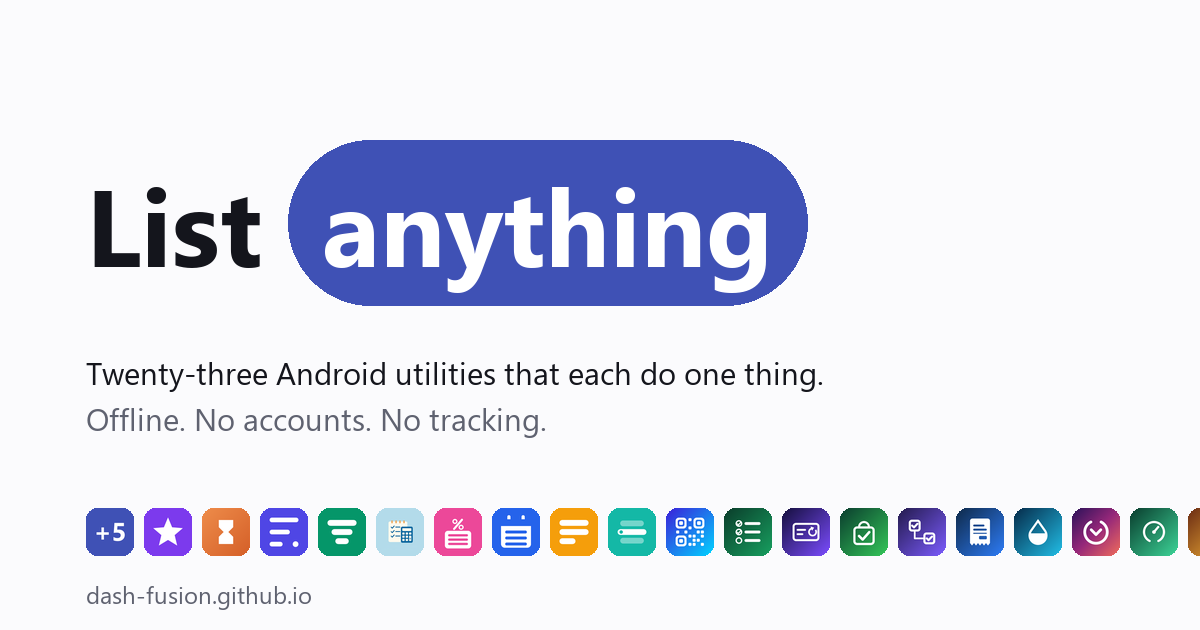
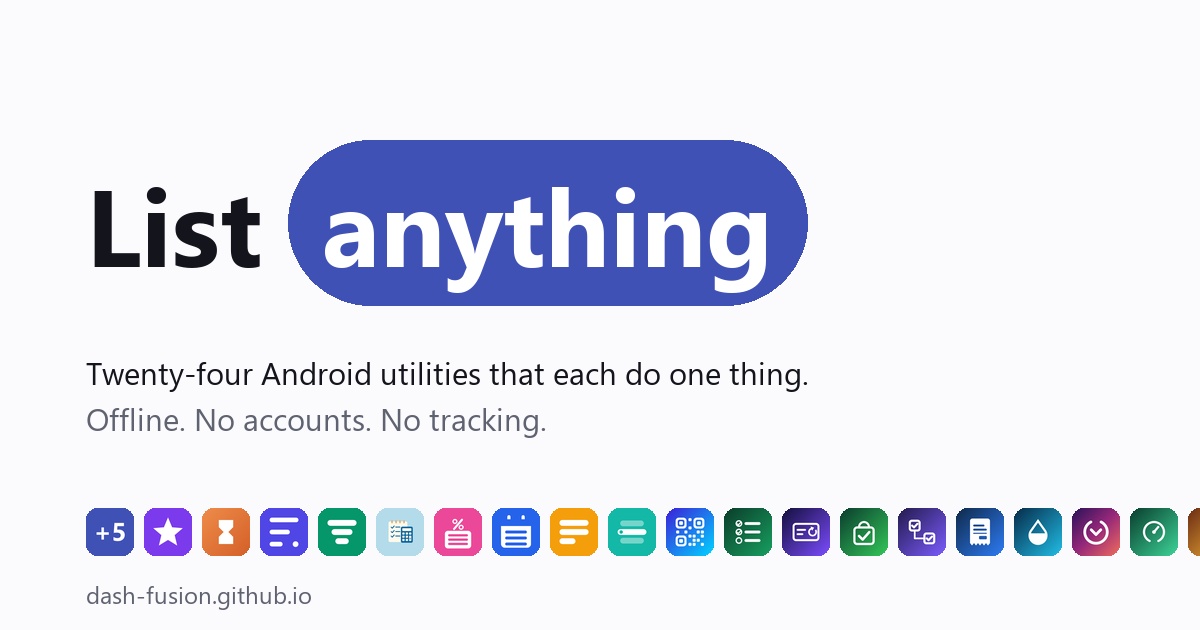
Add Pill Reminder to the site
All seven checklist items. It sits in Count and track with the other health
apps rather than in a category of its own, and the row copy leads with the thing
that matters in a reminder app - that the reminder actually arrives.

Verified rather than assumed: the JSON-LD parses, positions run contiguously
from one with no duplicate names, and the page carries twenty-six rows against
a count word of twenty-four, which is correct because the word counts utilities
only and the two games are counted separately.

This is the first row whose name carries no List prefix, following the naming
change made today.

Changed region(s): [[0.1542, 0.573, 0.6783, 0.6333]]

diff --git a/index.html b/index.html
@@ -5,7 +5,7 @@
 <meta name="viewport" content="width=device-width, initial-scale=1">
 
 <title>Dash Fusion — offline-first Android utility apps</title>
-<meta name="description" content="Twenty-three small Android utilities that each do one thing well — counters, timers, budgets, subscriptions, shopping lists, notes, QR codes and more — plus two offline games: Potion Sort color-sort puzzles and Neon PingPong arcade duels. Everything works fully offline, with no account required.">
+<meta name="description" content="Twenty-four small Android utilities that each do one thing well — counters, timers, budgets, subscriptions, shopping lists, notes, QR codes and more — plus two offline games: Potion Sort color-sort puzzles and Neon PingPong arcade duels. Everything works fully offline, with no account required.">
 <link rel="canonical" href="https://dash-fusion.github.io/">
 <meta name="author" content="Dash Fusion">
 <meta name="robots" content="index, follow, max-image-preview:large">
@@ -16,14 +16,14 @@
 <meta property="og:site_name" content="Dash Fusion">
 <meta property="og:url" content="https://dash-fusion.github.io/">
 <meta property="og:title" content="Dash Fusion — offline-first Android utility apps">
-<meta property="og:description" content="Twenty-three small Android utilities that each do one thing well, plus two offline games — Potion Sort and Neon PingPong. No account required.">
+<meta property="og:description" content="Twenty-four small Android utilities that each do one thing well, plus two offline games — Potion Sort and Neon PingPong. No account required.">
 <meta property="og:image" content="https://dash-fusion.github.io/og.png">
 <meta property="og:image:width" content="1200">
 <meta property="og:image:height" content="630">
-<meta property="og:image:alt" content="Dash Fusion — List anything. The twenty-three app icons in a row.">
+<meta property="og:image:alt" content="Dash Fusion — List anything. The twenty-four app icons in a row.">
 <meta name="twitter:card" content="summary_large_image">
 <meta name="twitter:title" content="Dash Fusion — offline-first Android utility apps">
-<meta name="twitter:description" content="Twenty-three small Android utilities that each do one thing well, plus two offline games — Potion Sort and Neon PingPong. No account required.">
+<meta name="twitter:description" content="Twenty-four small Android utilities that each do one thing well, plus two offline games — Potion Sort and Neon PingPong. No account required.">
 <meta name="twitter:image" content="https://dash-fusion.github.io/og.png">
 
 <link rel="icon" href="/favicon.svg" type="image/svg+xml">
@@ -320,7 +320,7 @@ a{color:inherit}
 <header class="masthead shell">
   <p class="eyebrow">Dash Fusion</p>
   <h1 class="wordmark">List <span class="slot" id="slot"><span class="slot-text" id="slotText">anything</span></span></h1>
-  <p class="lede">Twenty-three Android utilities that each do <strong>one thing</strong> — and two offline games for your breaks. Everything works offline, keeps your data on your phone, and never asks who you are.</p>
+  <p class="lede">Twenty-four Android utilities that each do <strong>one thing</strong> — and two offline games for your breaks. Everything works offline, keeps your data on your phone, and never asks who you are.</p>
   <span class="slot-measure" id="slotMeasure" aria-hidden="true"></span>
 </header>
 
@@ -430,6 +430,19 @@ a{color:inherit}
           <div class="row-links">
             <a class="play-link" href="https://play.google.com/store/apps/details?id=com.dashfusion.listfast" aria-label="List Fast on Google Play" title="Get it on Google Play"><svg class="play-glyph" aria-hidden="true" focusable="false"><use href="#gplay"></use></svg></a>
             <a href="https://dash-fusion.github.io/privacy/list-fast" aria-label="List Fast privacy policy">Privacy</a>
+          </div>
+        </div>
+      </li>
+      <li class="row" style="--hue:#5F3369;--deep:#5F3369">
+        <div class="row-in">
+          <img class="row-icon" src="icons/list-meds.png" width="46" height="46" alt="" decoding="async">
+          <div>
+            <h3 class="row-name">Pill Reminder</h3>
+            <p class="row-desc">Medication reminders that actually arrive, with a dose log and refill counts.</p>
+          </div>
+          <div class="row-links">
+            <a class="play-link" href="https://play.google.com/store/apps/details?id=com.dashfusion.listmeds" aria-label="Pill Reminder on Google Play" title="Get it on Google Play"><svg class="play-glyph" aria-hidden="true" focusable="false"><use href="#gplay"></use></svg></a>
+            <a href="https://dash-fusion.github.io/privacy/list-meds" aria-label="Pill Reminder privacy policy">Privacy</a>
           </div>
         </div>
       </li>
@@ -753,7 +766,8 @@ a{color:inherit}
     {t:'Pack',       c:'#8A4A14'},
     {t:'Fast',       c:'#4B4B9E'},
     {t:'Split',      c:'#4A45A8'},
-    {t:'Savings',    c:'#1B6B72'}
+    {t:'Savings',    c:'#1B6B72'},
+    {t:'Meds',       c:'#5F3369'}
   ];
   var i = 0;
 
@@ -820,7 +834,7 @@ a{color:inherit}
     {
       "@type":"ItemList",
       "name":"Dash Fusion Android apps",
-      "numberOfItems":25,
+      "numberOfItems":26,
       "itemListElement":[
         {"@type":"ListItem","position":1,"item":{"@type":"MobileApplication","name":"List Counter","applicationCategory":"UtilitiesApplication","operatingSystem":"Android","url":"https://play.google.com/store/apps/details?id=com.dashfusion.listcounter","image":"https://dash-fusion.github.io/icons/list-counter.png","description":"Tally reps, stock, laps or attendees with as many counters as you need.","author":{"@id":"https://dash-fusion.github.io/#org"},"offers":{"@type":"Offer","price":"0","priceCurrency":"USD"}}},
         {"@type":"ListItem","position":2,"item":{"@type":"MobileApplication","name":"List Habit","applicationCategory":"UtilitiesApplication","operatingSystem":"Android","url":"https://play.google.com/store/apps/details?id=com.dashfusion.listhabit","image":"https://dash-fusion.github.io/icons/list-habit.png","description":"Offline habit tracker — daily, weekday or weekly-goal habits with streaks, a month calendar and gentle reminders.","author":{"@id":"https://dash-fusion.github.io/#org"},"offers":{"@type":"Offer","price":"0","priceCurrency":"USD"}}},
@@ -830,23 +844,24 @@ a{color:inherit}
         {"@type":"ListItem","position":6,"item":{"@type":"MobileApplication","name":"List Countdown","applicationCategory":"UtilitiesApplication","operatingSystem":"Android","url":"https://play.google.com/store/apps/details?id=com.dashfusion.listcountdown","image":"https://dash-fusion.github.io/icons/list-countdown.png","description":"Offline event countdown with home-screen widgets — days to go for birthdays, trips and deadlines, yearly repeats and milestone alerts. No account, no banner ads.","author":{"@id":"https://dash-fusion.github.io/#org"},"offers":{"@type":"Offer","price":"0","priceCurrency":"USD"}}},
         {"@type":"ListItem","position":7,"item":{"@type":"MobileApplication","name":"List Weight","applicationCategory":"HealthApplication","operatingSystem":"Android","url":"https://play.google.com/store/apps/details?id=com.dashfusion.listweight","image":"https://dash-fusion.github.io/icons/list-weight.png","description":"Offline weight tracker — one entry a day, a trend chart with a goal line, kg or lb, and a rough BMI figure. No account, no banner ads.","author":{"@id":"https://dash-fusion.github.io/#org"},"offers":{"@type":"Offer","price":"0","priceCurrency":"USD"}}},
         {"@type":"ListItem","position":8,"item":{"@type":"MobileApplication","name":"List Fast","applicationCategory":"HealthApplication","operatingSystem":"Android","url":"https://play.google.com/store/apps/details?id=com.dashfusion.listfast","image":"https://dash-fusion.github.io/icons/list-fast.png","description":"Offline intermittent fasting tracker — 16:8, 18:6, 20:4, OMAD or a custom length, a live progress ring, a plain-language stage timeline, history and streaks. No account, no banner ads.","author":{"@id":"https://dash-fusion.github.io/#org"},"offers":{"@type":"Offer","price":"0","priceCurrency":"USD"}}},
-        {"@type":"ListItem","position":9,"item":{"@type":"MobileApplication","name":"List Budget","applicationCategory":"FinanceApplication","operatingSystem":"Android","url":"https://play.google.com/store/apps/details?id=com.dashfusion.listbudget","image":"https://dash-fusion.github.io/icons/list-budget.png","description":"Set a monthly amount per category and always see what is left to spend.","author":{"@id":"https://dash-fusion.github.io/#org"},"offers":{"@type":"Offer","price":"0","priceCurrency":"USD"}}},
-        {"@type":"ListItem","position":10,"item":{"@type":"MobileApplication","name":"List Debt","applicationCategory":"FinanceApplication","operatingSystem":"Android","url":"https://play.google.com/store/apps/details?id=com.dashfusion.listdebt","image":"https://dash-fusion.github.io/icons/list-debt.png","description":"Track loans and installments, and see what to prepare this month.","author":{"@id":"https://dash-fusion.github.io/#org"},"offers":{"@type":"Offer","price":"0","priceCurrency":"USD"}}},
-        {"@type":"ListItem","position":11,"item":{"@type":"MobileApplication","name":"List Subs","applicationCategory":"FinanceApplication","operatingSystem":"Android","url":"https://play.google.com/store/apps/details?id=com.dashfusion.listsubscriptions","image":"https://dash-fusion.github.io/icons/list-subs.png","description":"Offline subscription tracker — next renewals, monthly and yearly totals, category breakdown, reminders, and what you save by cancelling. No bank login.","author":{"@id":"https://dash-fusion.github.io/#org"},"offers":{"@type":"Offer","price":"0","priceCurrency":"USD"}}},
-        {"@type":"ListItem","position":12,"item":{"@type":"MobileApplication","name":"List Split","applicationCategory":"FinanceApplication","operatingSystem":"Android","url":"https://play.google.com/store/apps/details?id=com.dashfusion.listsplit","image":"https://dash-fusion.github.io/icons/list-split.png","description":"Offline group expense splitter — equal, exact, share and percentage splits, live balances, and the shortest list of payments that settles everyone. No account, no banner ads.","author":{"@id":"https://dash-fusion.github.io/#org"},"offers":{"@type":"Offer","price":"0","priceCurrency":"USD"}}},
-        {"@type":"ListItem","position":13,"item":{"@type":"MobileApplication","name":"List Savings","applicationCategory":"FinanceApplication","operatingSystem":"Android","url":"https://play.google.com/store/apps/details?id=com.dashfusion.listsavings","image":"https://dash-fusion.github.io/icons/list-savings.png","description":"Offline savings goal tracker — targets with progress bars, a deposit log that records withdrawals, and what to save each week or month to land on time. No account, no banner ads.","author":{"@id":"https://dash-fusion.github.io/#org"},"offers":{"@type":"Offer","price":"0","priceCurrency":"USD"}}},
-        {"@type":"ListItem","position":14,"item":{"@type":"MobileApplication","name":"List Calculator","applicationCategory":"UtilitiesApplication","operatingSystem":"Android","url":"https://play.google.com/store/apps/details?id=com.dashfusion.listcalculator","image":"https://dash-fusion.github.io/icons/list-calculator.png","description":"Keep separate calculation lists, each one totalled as you type.","author":{"@id":"https://dash-fusion.github.io/#org"},"offers":{"@type":"Offer","price":"0","priceCurrency":"USD"}}},
-        {"@type":"ListItem","position":15,"item":{"@type":"MobileApplication","name":"List Percent","applicationCategory":"UtilitiesApplication","operatingSystem":"Android","url":"https://play.google.com/store/apps/details?id=com.dashfusion.listpercent","image":"https://dash-fusion.github.io/icons/list-percent.png","description":"Percent of, percent change, tips, tax and discounts in one place.","author":{"@id":"https://dash-fusion.github.io/#org"},"offers":{"@type":"Offer","price":"0","priceCurrency":"USD"}}},
-        {"@type":"ListItem","position":16,"item":{"@type":"MobileApplication","name":"List Date","applicationCategory":"UtilitiesApplication","operatingSystem":"Android","url":"https://play.google.com/store/apps/details?id=com.dashfusion.listdate","image":"https://dash-fusion.github.io/icons/list-date.png","description":"Days between dates, ages, working days and deadlines that keep themselves current.","author":{"@id":"https://dash-fusion.github.io/#org"},"offers":{"@type":"Offer","price":"0","priceCurrency":"USD"}}},
-        {"@type":"ListItem","position":17,"item":{"@type":"MobileApplication","name":"List Notes","applicationCategory":"ProductivityApplication","operatingSystem":"Android","url":"https://play.google.com/store/apps/details?id=com.dashfusion.listnotes","image":"https://dash-fusion.github.io/icons/list-notes.png","description":"Notes with checklists, real tables, attachments and one-tap PDF export.","author":{"@id":"https://dash-fusion.github.io/#org"},"offers":{"@type":"Offer","price":"0","priceCurrency":"USD"}}},
-        {"@type":"ListItem","position":18,"item":{"@type":"MobileApplication","name":"List Picker","applicationCategory":"UtilitiesApplication","operatingSystem":"Android","url":"https://play.google.com/store/apps/details?id=com.dashfusion.listpicker","image":"https://dash-fusion.github.io/icons/list-picker.png","description":"Spin a wheel, draw a name, split teams or flip a coin.","author":{"@id":"https://dash-fusion.github.io/#org"},"offers":{"@type":"Offer","price":"0","priceCurrency":"USD"}}},
-        {"@type":"ListItem","position":19,"item":{"@type":"MobileApplication","name":"List Grocery","applicationCategory":"ShoppingApplication","operatingSystem":"Android","url":"https://play.google.com/store/apps/details?id=com.dashfusion.listgrocery","image":"https://dash-fusion.github.io/icons/list-grocery.png","description":"Offline shopping list built for the aisle — quick add, aisle order per store, staples, templates and an estimated total. No account, no banner ads.","author":{"@id":"https://dash-fusion.github.io/#org"},"offers":{"@type":"Offer","price":"0","priceCurrency":"USD"}}},
-        {"@type":"ListItem","position":20,"item":{"@type":"MobileApplication","name":"List Todo","applicationCategory":"ProductivityApplication","operatingSystem":"Android","url":"https://play.google.com/store/apps/details?id=com.dashfusion.listtodo","image":"https://dash-fusion.github.io/icons/list-todo.png","description":"Offline to-do list with unlimited nested sub-tasks — tick a parent to finish the branch, plus due dates, reminders and repeating tasks at any depth. No account, no banner ads.","author":{"@id":"https://dash-fusion.github.io/#org"},"offers":{"@type":"Offer","price":"0","priceCurrency":"USD"}}},
-        {"@type":"ListItem","position":21,"item":{"@type":"MobileApplication","name":"List Pack","applicationCategory":"TravelApplication","operatingSystem":"Android","url":"https://play.google.com/store/apps/details?id=com.dashfusion.listpack","image":"https://dash-fusion.github.io/icons/list-pack.png","description":"Offline packing checklist built from reusable templates — categories, quantities, multi-person assignment and a progress bar for every trip.","author":{"@id":"https://dash-fusion.github.io/#org"},"offers":{"@type":"Offer","price":"0","priceCurrency":"USD"}}},
-        {"@type":"ListItem","position":22,"item":{"@type":"MobileApplication","name":"List QR","applicationCategory":"UtilitiesApplication","operatingSystem":"Android","url":"https://play.google.com/store/apps/details?id=com.dashfusion.qrgenerator","image":"https://dash-fusion.github.io/icons/list-qr.png","description":"Offline QR code and barcode generator — styled codes that still scan, saved to a list on your device.","author":{"@id":"https://dash-fusion.github.io/#org"},"offers":{"@type":"Offer","price":"0","priceCurrency":"USD"}}},
-        {"@type":"ListItem","position":23,"item":{"@type":"MobileApplication","name":"List Invoice","applicationCategory":"BusinessApplication","operatingSystem":"Android","url":"https://play.google.com/store/apps/details?id=com.dashfusion.listinvoice","image":"https://dash-fusion.github.io/icons/list-invoice.png","description":"Offline invoice maker — branded PDF invoices with no watermark, saved clients and items, automatic numbering, and paid and outstanding totals. No account, no banner ads.","author":{"@id":"https://dash-fusion.github.io/#org"},"offers":{"@type":"Offer","price":"0","priceCurrency":"USD"}}},
-        {"@type":"ListItem","position":24,"item":{"@type":"MobileApplication","name":"Neon PingPong","applicationCategory":"GameApplication","operatingSystem":"Android","url":"https://play.google.com/store/apps/details?id=com.dashfusion.pingpong","image":"https://dash-fusion.github.io/icons/pingpong.png","description":"Neon arcade ping pong — solo vs AI, two players on one phone, or Wi-Fi multiplayer. Fully offline.","author":{"@id":"https://dash-fusion.github.io/#org"},"offers":{"@type":"Offer","price":"0","priceCurrency":"USD"}}},
-        {"@type":"ListItem","position":25,"item":{"@type":"MobileApplication","name":"Potion Sort","applicationCategory":"GameApplication","operatingSystem":"Android","url":"https://play.google.com/store/apps/details?id=com.dashfusion.potion_sort","image":"https://dash-fusion.github.io/icons/potion-sort.png","description":"Offline color-sort puzzle with 999 solver-verified levels and a daily challenge.","author":{"@id":"https://dash-fusion.github.io/#org"},"offers":{"@type":"Offer","price":"0","priceCurrency":"USD"}}}
+        {"@type":"ListItem","position":9,"item":{"@type":"MobileApplication","name":"Pill Reminder","applicationCategory":"HealthApplication","operatingSystem":"Android","url":"https://play.google.com/store/apps/details?id=com.dashfusion.listmeds","image":"https://dash-fusion.github.io/icons/list-meds.png","description":"Offline pill reminder and medication tracker — exact-alarm reminders with Taken, Snooze and Skip from the notification, a dose log with adherence, and refill counts. Not a medical device. No account, no banner ads.","author":{"@id":"https://dash-fusion.github.io/#org"},"offers":{"@type":"Offer","price":"0","priceCurrency":"USD"}}},
+        {"@type":"ListItem","position":10,"item":{"@type":"MobileApplication","name":"List Budget","applicationCategory":"FinanceApplication","operatingSystem":"Android","url":"https://play.google.com/store/apps/details?id=com.dashfusion.listbudget","image":"https://dash-fusion.github.io/icons/list-budget.png","description":"Set a monthly amount per category and always see what is left to spend.","author":{"@id":"https://dash-fusion.github.io/#org"},"offers":{"@type":"Offer","price":"0","priceCurrency":"USD"}}},
+        {"@type":"ListItem","position":11,"item":{"@type":"MobileApplication","name":"List Debt","applicationCategory":"FinanceApplication","operatingSystem":"Android","url":"https://play.google.com/store/apps/details?id=com.dashfusion.listdebt","image":"https://dash-fusion.github.io/icons/list-debt.png","description":"Track loans and installments, and see what to prepare this month.","author":{"@id":"https://dash-fusion.github.io/#org"},"offers":{"@type":"Offer","price":"0","priceCurrency":"USD"}}},
+        {"@type":"ListItem","position":12,"item":{"@type":"MobileApplication","name":"List Subs","applicationCategory":"FinanceApplication","operatingSystem":"Android","url":"https://play.google.com/store/apps/details?id=com.dashfusion.listsubscriptions","image":"https://dash-fusion.github.io/icons/list-subs.png","description":"Offline subscription tracker — next renewals, monthly and yearly totals, category breakdown, reminders, and what you save by cancelling. No bank login.","author":{"@id":"https://dash-fusion.github.io/#org"},"offers":{"@type":"Offer","price":"0","priceCurrency":"USD"}}},
+        {"@type":"ListItem","position":13,"item":{"@type":"MobileApplication","name":"List Split","applicationCategory":"FinanceApplication","operatingSystem":"Android","url":"https://play.google.com/store/apps/details?id=com.dashfusion.listsplit","image":"https://dash-fusion.github.io/icons/list-split.png","description":"Offline group expense splitter — equal, exact, share and percentage splits, live balances, and the shortest list of payments that settles everyone. No account, no banner ads.","author":{"@id":"https://dash-fusion.github.io/#org"},"offers":{"@type":"Offer","price":"0","priceCurrency":"USD"}}},
+        {"@type":"ListItem","position":14,"item":{"@type":"MobileApplication","name":"List Savings","applicationCategory":"FinanceApplication","operatingSystem":"Android","url":"https://play.google.com/store/apps/details?id=com.dashfusion.listsavings","image":"https://dash-fusion.github.io/icons/list-savings.png","description":"Offline savings goal tracker — targets with progress bars, a deposit log that records withdrawals, and what to save each week or month to land on time. No account, no banner ads.","author":{"@id":"https://dash-fusion.github.io/#org"},"offers":{"@type":"Offer","price":"0","priceCurrency":"USD"}}},
+        {"@type":"ListItem","position":15,"item":{"@type":"MobileApplication","name":"List Calculator","applicationCategory":"UtilitiesApplication","operatingSystem":"Android","url":"https://play.google.com/store/apps/details?id=com.dashfusion.listcalculator","image":"https://dash-fusion.github.io/icons/list-calculator.png","description":"Keep separate calculation lists, each one totalled as you type.","author":{"@id":"https://dash-fusion.github.io/#org"},"offers":{"@type":"Offer","price":"0","priceCurrency":"USD"}}},
+        {"@type":"ListItem","position":16,"item":{"@type":"MobileApplication","name":"List Percent","applicationCategory":"UtilitiesApplication","operatingSystem":"Android","url":"https://play.google.com/store/apps/details?id=com.dashfusion.listpercent","image":"https://dash-fusion.github.io/icons/list-percent.png","description":"Percent of, percent change, tips, tax and discounts in one place.","author":{"@id":"https://dash-fusion.github.io/#org"},"offers":{"@type":"Offer","price":"0","priceCurrency":"USD"}}},
+        {"@type":"ListItem","position":17,"item":{"@type":"MobileApplication","name":"List Date","applicationCategory":"UtilitiesApplication","operatingSystem":"Android","url":"https://play.google.com/store/apps/details?id=com.dashfusion.listdate","image":"https://dash-fusion.github.io/icons/list-date.png","description":"Days between dates, ages, working days and deadlines that keep themselves current.","author":{"@id":"https://dash-fusion.github.io/#org"},"offers":{"@type":"Offer","price":"0","priceCurrency":"USD"}}},
+        {"@type":"ListItem","position":18,"item":{"@type":"MobileApplication","name":"List Notes","applicationCategory":"ProductivityApplication","operatingSystem":"Android","url":"https://play.google.com/store/apps/details?id=com.dashfusion.listnotes","image":"https://dash-fusion.github.io/icons/list-notes.png","description":"Notes with checklists, real tables, attachments and one-tap PDF export.","author":{"@id":"https://dash-fusion.github.io/#org"},"offers":{"@type":"Offer","price":"0","priceCurrency":"USD"}}},
+        {"@type":"ListItem","position":19,"item":{"@type":"MobileApplication","name":"List Picker","applicationCategory":"UtilitiesApplication","operatingSystem":"Android","url":"https://play.google.com/store/apps/details?id=com.dashfusion.listpicker","image":"https://dash-fusion.github.io/icons/list-picker.png","description":"Spin a wheel, draw a name, split teams or flip a coin.","author":{"@id":"https://dash-fusion.github.io/#org"},"offers":{"@type":"Offer","price":"0","priceCurrency":"USD"}}},
+        {"@type":"ListItem","position":20,"item":{"@type":"MobileApplication","name":"List Grocery","applicationCategory":"ShoppingApplication","operatingSystem":"Android","url":"https://play.google.com/store/apps/details?id=com.dashfusion.listgrocery","image":"https://dash-fusion.github.io/icons/list-grocery.png","description":"Offline shopping list built for the aisle — quick add, aisle order per store, staples, templates and an estimated total. No account, no banner ads.","author":{"@id":"https://dash-fusion.github.io/#org"},"offers":{"@type":"Offer","price":"0","priceCurrency":"USD"}}},
+        {"@type":"ListItem","position":21,"item":{"@type":"MobileApplication","name":"List Todo","applicationCategory":"ProductivityApplication","operatingSystem":"Android","url":"https://play.google.com/store/apps/details?id=com.dashfusion.listtodo","image":"https://dash-fusion.github.io/icons/list-todo.png","description":"Offline to-do list with unlimited nested sub-tasks — tick a parent to finish the branch, plus due dates, reminders and repeating tasks at any depth. No account, no banner ads.","author":{"@id":"https://dash-fusion.github.io/#org"},"offers":{"@type":"Offer","price":"0","priceCurrency":"USD"}}},
+        {"@type":"ListItem","position":22,"item":{"@type":"MobileApplication","name":"List Pack","applicationCategory":"TravelApplication","operatingSystem":"Android","url":"https://play.google.com/store/apps/details?id=com.dashfusion.listpack","image":"https://dash-fusion.github.io/icons/list-pack.png","description":"Offline packing checklist built from reusable templates — categories, quantities, multi-person assignment and a progress bar for every trip.","author":{"@id":"https://dash-fusion.github.io/#org"},"offers":{"@type":"Offer","price":"0","priceCurrency":"USD"}}},
+        {"@type":"ListItem","position":23,"item":{"@type":"MobileApplication","name":"List QR","applicationCategory":"UtilitiesApplication","operatingSystem":"Android","url":"https://play.google.com/store/apps/details?id=com.dashfusion.qrgenerator","image":"https://dash-fusion.github.io/icons/list-qr.png","description":"Offline QR code and barcode generator — styled codes that still scan, saved to a list on your device.","author":{"@id":"https://dash-fusion.github.io/#org"},"offers":{"@type":"Offer","price":"0","priceCurrency":"USD"}}},
+        {"@type":"ListItem","position":24,"item":{"@type":"MobileApplication","name":"List Invoice","applicationCategory":"BusinessApplication","operatingSystem":"Android","url":"https://play.google.com/store/apps/details?id=com.dashfusion.listinvoice","image":"https://dash-fusion.github.io/icons/list-invoice.png","description":"Offline invoice maker — branded PDF invoices with no watermark, saved clients and items, automatic numbering, and paid and outstanding totals. No account, no banner ads.","author":{"@id":"https://dash-fusion.github.io/#org"},"offers":{"@type":"Offer","price":"0","priceCurrency":"USD"}}},
+        {"@type":"ListItem","position":25,"item":{"@type":"MobileApplication","name":"Neon PingPong","applicationCategory":"GameApplication","operatingSystem":"Android","url":"https://play.google.com/store/apps/details?id=com.dashfusion.pingpong","image":"https://dash-fusion.github.io/icons/pingpong.png","description":"Neon arcade ping pong — solo vs AI, two players on one phone, or Wi-Fi multiplayer. Fully offline.","author":{"@id":"https://dash-fusion.github.io/#org"},"offers":{"@type":"Offer","price":"0","priceCurrency":"USD"}}},
+        {"@type":"ListItem","position":26,"item":{"@type":"MobileApplication","name":"Potion Sort","applicationCategory":"GameApplication","operatingSystem":"Android","url":"https://play.google.com/store/apps/details?id=com.dashfusion.potion_sort","image":"https://dash-fusion.github.io/icons/potion-sort.png","description":"Offline color-sort puzzle with 999 solver-verified levels and a daily challenge.","author":{"@id":"https://dash-fusion.github.io/#org"},"offers":{"@type":"Offer","price":"0","priceCurrency":"USD"}}}
       ]
     }
   ]

diff --git a/scripts/gen_social.py b/scripts/gen_social.py
@@ -25,7 +25,7 @@ REGULAR = "C:/Windows/Fonts/segoeui.ttf"
 APPS = [
     "counter", "score", "timer", "budget", "debt",
     "calculator", "percent", "date", "notes", "picker", "qr", "habit", "subs", "grocery",
-    "todo", "invoice", "water", "countdown", "weight", "pack", "fast", "split", "savings",
+    "todo", "invoice", "water", "countdown", "weight", "pack", "fast", "split", "savings", "meds",
 ]
 
 
@@ -63,7 +63,7 @@ def build_og(path):
 
     d.text(
         (left, py1 + 46),
-        "Twenty-three Android utilities that each do one thing.",
+        "Twenty-four Android utilities that each do one thing.",
         font=sub,
         fill=INK,
     )
